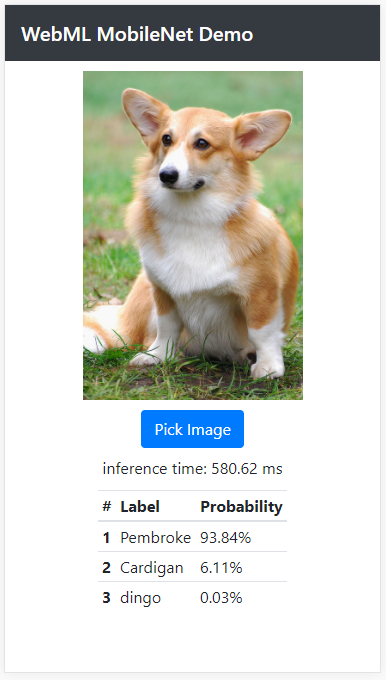
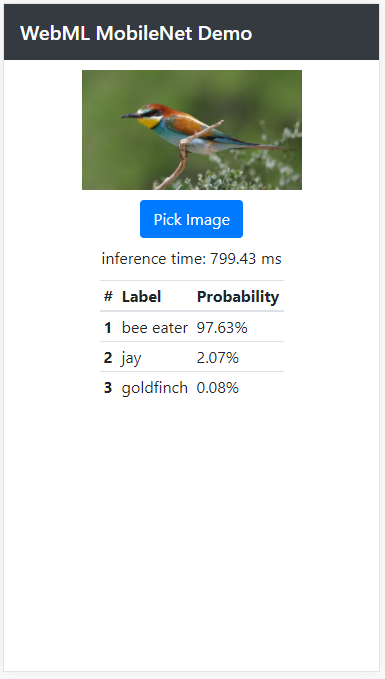
Add progress bar and change default image of mobilenet example

diff --git a/examples/mobilenet/main.js b/examples/mobilenet/main.js
@@ -10,6 +10,9 @@ var inputTensor, outputTensor;
 function main() {
   inputTensor = new Float32Array(INPUT_TENSOR_SIZE);
   outputTensor = new Float32Array(OUTPUT_TENSOR_SIZE);
+  const container = document.getElementById('container');
+  const progressBar = document.getElementById('progressBar');
+  const progressContainer = document.getElementById('progressContainer');
   const imageElement = document.getElementById('image');
   const canvasElement = document.getElementById('canvas');
   const canvasContext = canvasElement.getContext('2d');
@@ -22,14 +25,14 @@ function main() {
   }, false);
 
   imageElement.onload = function() {
-    canvasContext.drawImage(imageElement, 0, 0,
-      canvasElement.width,
-      canvasElement.height);
     predict();
   }
 
   function predict() {
     let start = performance.now();
+    canvasContext.drawImage(imageElement, 0, 0,
+                            canvasElement.width,
+                            canvasElement.height);
     prepareInputTensor(inputTensor, canvasElement);
     model.compute(inputTensor, outputTensor).then(result => {
       let elapsed = performance.now() - start;
@@ -51,6 +54,7 @@ function main() {
   }
 
   loadModelAndLabels(MODEL_FILE, LABELS_FILE).then(result => {
+    container.removeChild(progressContainer);
     labels = result.text.split('\n');
     console.log(`labels: ${labels}`);
     let flatBuffer = new flatbuffers.ByteBuffer(result.bytes);
@@ -59,7 +63,7 @@ function main() {
     model = new MobileNet(tfModel);
     model.createCompiledModel().then(result => {
       console.log(`compilation result: ${result}`);
-      imageElement.src = './img/Welsh_Corgi_Pembroke_WPR_Kamien_07_10_07.jpg';
+      predict();
     }).catch(e => {
       console.error(e);
     })
@@ -77,12 +81,40 @@ function main() {
 }
 
 async function loadModelAndLabels(modelUrl, labelsUrl) {
-  let response = await fetch(modelUrl);
-  let arrayBuffer = await response.arrayBuffer();
+  let arrayBuffer = await loadUrl(modelUrl, true, true);
   let bytes = new Uint8Array(arrayBuffer);
-  response = await fetch(labelsUrl);
-  let text = await response.text();
+  text = await loadUrl(labelsUrl);
   return {bytes: bytes, text: text};
+}
+
+async function loadUrl(url, binary, progress) {
+  return new Promise((resolve, reject) => {
+    let request = new XMLHttpRequest();
+    request.open('GET', url, true);
+    if (binary) {
+      request.responseType = 'arraybuffer';
+    }
+    request.onload = function(ev) {
+      if (request.readyState === 4) {
+        if (request.status === 200) {
+            resolve(request.response);
+        } else {
+            reject(new Error('Failed to load ' + modelUrl + ' status: ' + request.status));
+        }
+      }
+    };
+    if (progress) {
+      request.onprogress = function(ev) {
+        if (ev.lengthComputable) {
+          let percentComplete = ev.loaded / ev.total * 100;
+          percentComplete = percentComplete.toFixed(0);
+          progressBar.style = `width: ${percentComplete}%`;
+          progressBar.innerHTML = `${percentComplete}%`;
+        }
+      }
+    }
+    request.send();
+  });
 }
 
 function prepareInputTensor(tensor, canvas) {

diff --git a/examples/mobilenet/index.html b/examples/mobilenet/index.html
@@ -5,14 +5,19 @@
     <title>WebML MobileNet Demo</title>
     <link rel="stylesheet" href="https://maxcdn.bootstrapcdn.com/bootstrap/4.0.0-beta.3/css/bootstrap.min.css" integrity="sha384-Zug+QiDoJOrZ5t4lssLdxGhVrurbmBWopoEl+M6BdEfwnCJZtKxi1KgxUyJq13dy" crossorigin="anonymous">
     <style>
-      img {
-        max-width: 500px;
-        max-height: 500px;
-      }
       canvas {
         display: none;
         position: absolute;
         z-index: -3;
+      }
+      .progress-label {
+        float: left;
+        margin-right: 1em;
+        height: 1rem;
+        font-size: .75rem;
+      }
+      .top-margin {
+        margin-top:10px;
       }
     </style>
   </head>
@@ -21,16 +26,22 @@
       <span class="navbar-brand mb-0 h1">WebML MobileNet Demo</span>
     </nav>
     <div class="container" id="container">
-      <div class="row" style="margin-top:10px;">
+      <div id="progressContainer">
+        <div class="progress-label">Loading Model:</div>
+        <div class="progress">
+          <div class="progress-bar" role="progressbar" style="width: 0%;" aria-valuenow="0" aria-valuemin="0" aria-valuemax="100" id="progressBar">0%</div>
+        </div>
+      </div>
+      <div class="row top-margin">
         <div class="col">
         </div>
         <div class="col-8" align="center">
-          <img id="image" crossorigin="anonymous" class="img-fluid" alt="Responsive image"></img>
+          <img id="image" crossorigin="anonymous" class="img-fluid" alt="Responsive image" src="./img/bee_eater.jpg"></img>
         </div>
         <div class="col">
         </div>
       </div>
-      <div class="row" style="margin-top:10px;">
+      <div class="row top-margin">
         <div class="col">
         </div>
         <div class="col" align="center">
@@ -46,7 +57,7 @@
         <div id="inferenceTime" class="col" align="center">
         </div>
       </div>
-      <div class="row" style="margin-top:10px;">
+      <div class="row top-margin">
         <div class="col"></div>
         <div class="col">
             <table class="table table-sm">
@@ -61,7 +72,7 @@
                   <tr>
                     <th scope="row">1</th>
                     <td id="label0"></td>
-                    <td id="prob0">Thornton</td>
+                    <td id="prob0"></td>
                   </tr>
                   <tr>
                     <th scope="row">2</th>

diff --git a/examples/mobilenet/README.md b/examples/mobilenet/README.md
@@ -4,7 +4,7 @@ This sample loads MobileNet model trained by ImageNet in TensorFlow Lite format,
 
 Download Model
 -----------
-Before launch this sample, you need to download the model. Please check out README.md in model folder for details.
+Before launch this sample, you need to download the model. Please check out [README.md](model/README.md) in model folder for details.
 
 Screenshots
 -----------
